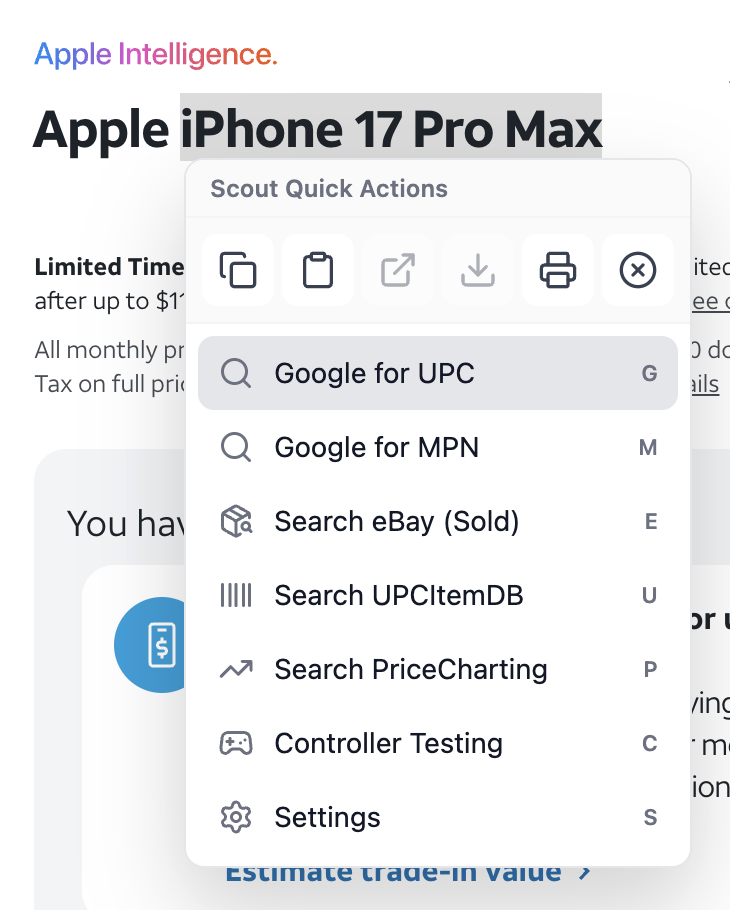
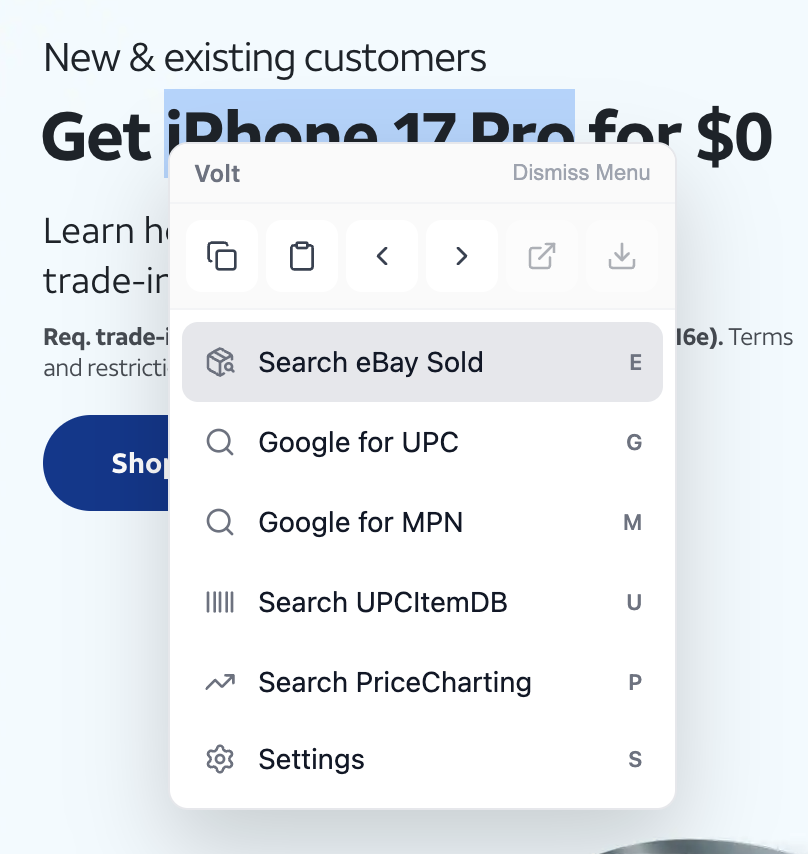
Revise Chrome Extension documentation to reflect new branding and features
- Updated the description of the Chrome extension to emphasize its focus on professional resellers of games and electronics.
- Consolidated and restructured key features for clarity, including new functionalities like Quick Actions, Click To Copy UPC Codes, and Price Charting Lot Tool.
- Removed outdated version history and previous feature descriptions to streamline the document.
- Updated images and assets to align with the new branding.

diff --git a/docs/CHROME_EXTENSION.MD b/docs/CHROME_EXTENSION.MD
@@ -1,55 +1,19 @@
 Volt Chrome Extension
 
-Scout is a powerful browser extension designed to enhance productivity with quick navigation, search capabilities, and intelligent price tracking. Built with efficiency in mind, Scout provides a powerful command palette interface for instant access to bookmarks, browsing history, open tabs, and multi-platform search. The extension integrates with multiple popular platforms and includes advanced features like eBay price analysis, Shopify Buttons, and UPC highlighting for comprehensive workflow optimization.
-
-### v1.0.2 - Bug Fixes & Improvements
-
-This update includes important bug fixes and usability improvements based on user feedback:
-
-- **Context Menu Shortcut Fix** - Changed from `Alt+Right-click` to `Ctrl+Right-click` to show native browser menu instead of Scout menu for better compatibility
-
-### v1.0.1 - Enhanced User Experience
-
-This update focuses on improving your first-time experience and making Scout more intuitive to use:
-
-- **Welcome & Setup Guide** - New install page automatically opens when you first install Scout with step-by-step setup instructions and feature overview
-- **Quick Actions** - Enhanced right-click menu with useful shortcuts like copy/paste, open in new tab, save as, print, and delete element for faster browsing (use `Ctrl+Right-click` for native browser menu)
-- **UPC Highlighter** - Click to copy UPC codes directly from any webpage - just click on highlighted product codes to copy them instantly
-- **eBay Price Summary** - Intelligent price analysis for eBay sold listings with filtering and category insights
-- **Improved Controller Detection** - More reliable game controller detection that automatically opens controller testing when you connect a new controller
-- **Smoother Performance** - Faster tab switching and better error handling throughout the extension
-
-### v1.0.0 - Scout Launch
-
-The initial release of Scout, featuring:
-
-- **Command Menu** - Press `CMD+Shift+K` to open an Arc-style command palette that gives you instant access to everything
-- **Your bookmarks at your fingertips** - Quickly access your 20 most recently saved bookmarks
-- **Recent browsing history** - Jump back to any of your last 30 visited pages instantly
-- **Multi-platform search** - Search across popular platforms all from one place
-- **Lightning-fast tab switching** - See all your open tabs and switch between them with just a few keystrokes
-- **eBay Price Analysis** - Intelligent price summaries for sold listings with filtering
-- **Shopify Buttons** - Quick action buttons for reviewing prices for a product.
-- **UPC Highlighting** - Quick identification of product codes
-- **Controller Testing** - Press `CMD+J` to test and visualize game controller inputs
-- **Keyboard shortcuts** - Multiple shortcuts to boost your productivity throughout the day
+Volt is an all-in-one productivity suite designed specifically for professional resellers of games and electronics. By integrating market data, specialized testing tools, and listing utilities directly into the browser, Volt streamlines every stage of the reselling workflow—from inventory sourcing and condition testing to accurate pricing and marketplace listing.
 
 Key Features:
 
-- **Command Menu** - Press `CMD+Shift+K` to access all features quickly
-- **Bookmarks & History** - Access your 20 most recent bookmarks and last 30 visited pages
-- **Multi-Engine Search** - Search across multiple platforms from one interface
-- **Better Tab Navigation** - Switch between open tabs efficiently
-- **eBay Integration** - Price analysis and category suggestions
-- **Shopify Tools** - Product validation and management features
-- **Controller Testing** - Real-time game controller input visualization
-- **Customizable** - Press `CMD+O` to configure which command menu features are enabled and what order they appear in the list
-
-Get started:
-
-1. Install from the Chrome Web Store and pin the icon.
-2. Follow the setup guide that appears automatically.
-3. Press `CMD+Shift+K` to open the command palette.
-4. Use `CMD+O` to customize your settings.
-
-Need help? Open an issue on the GitHub repository.
+- **Quick Actions** - Highlight any text to instantly search eBay Sold Listings, PriceCharting, or UPC/MPN databases via the right-click context menu.
+- **Click To Copy UPC Codes** - Automatically detects and highlights UPC codes on any webpage, allowing for instant one-click copying to your clipboard.
+- **Price Charting Lot Tool** - Easily add, manage, and create video game lots via PriceCharting.
+- **Volt Tab (new tab override)** - Quickly get to any anything you need when opening a new tab.
+- **eBay Summary** - Get a quick summary when viewing search results on eBay.
+- **Shopify Buttons** - Instantly check market pricing for items when viewing in Shopify.
+- **Controller Testing** - Built-in controller testing with color visuals for indications of problems with the controller.
+- **Top Offer Calculator** - Automated buyout offer calculations based on projected sell prices with support for custom rate profiles.
+- **Buying Guide** - Instant access to buying requirements and quality guidelines for games and electronics via live Google Sheets integration.
+- **eBay Categories** - Quickly find correct eBay Taxonomy categories for accurate product listing.
+- **Cost Breakdown** - Detailed profit margin analysis and cost distribution for inventory items.
+- **Shopify Help** - Reference guide for Shopify tags and sales channel optimization.
+- **Tab Management** - Lightweight utility to view and manage open browser tabs directly from the sidepanel.